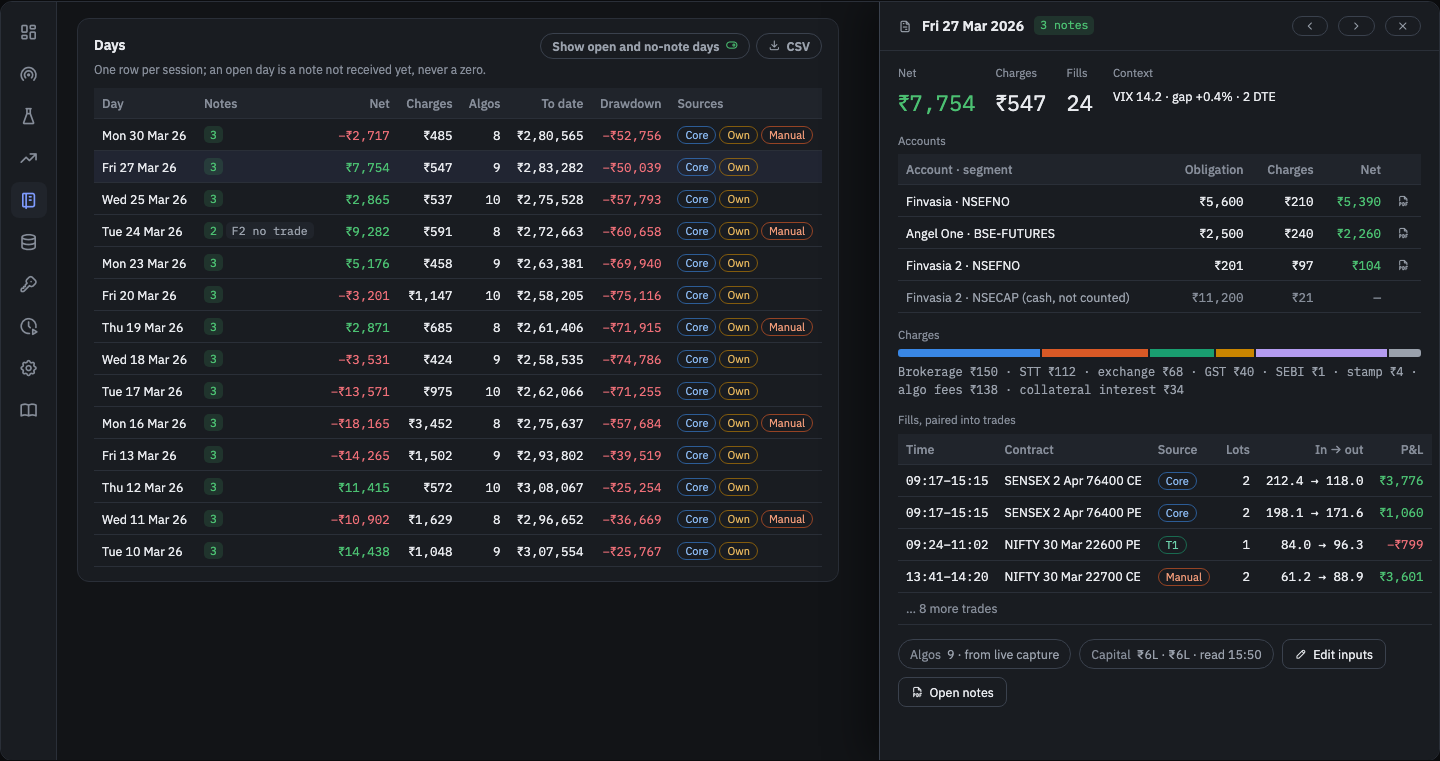
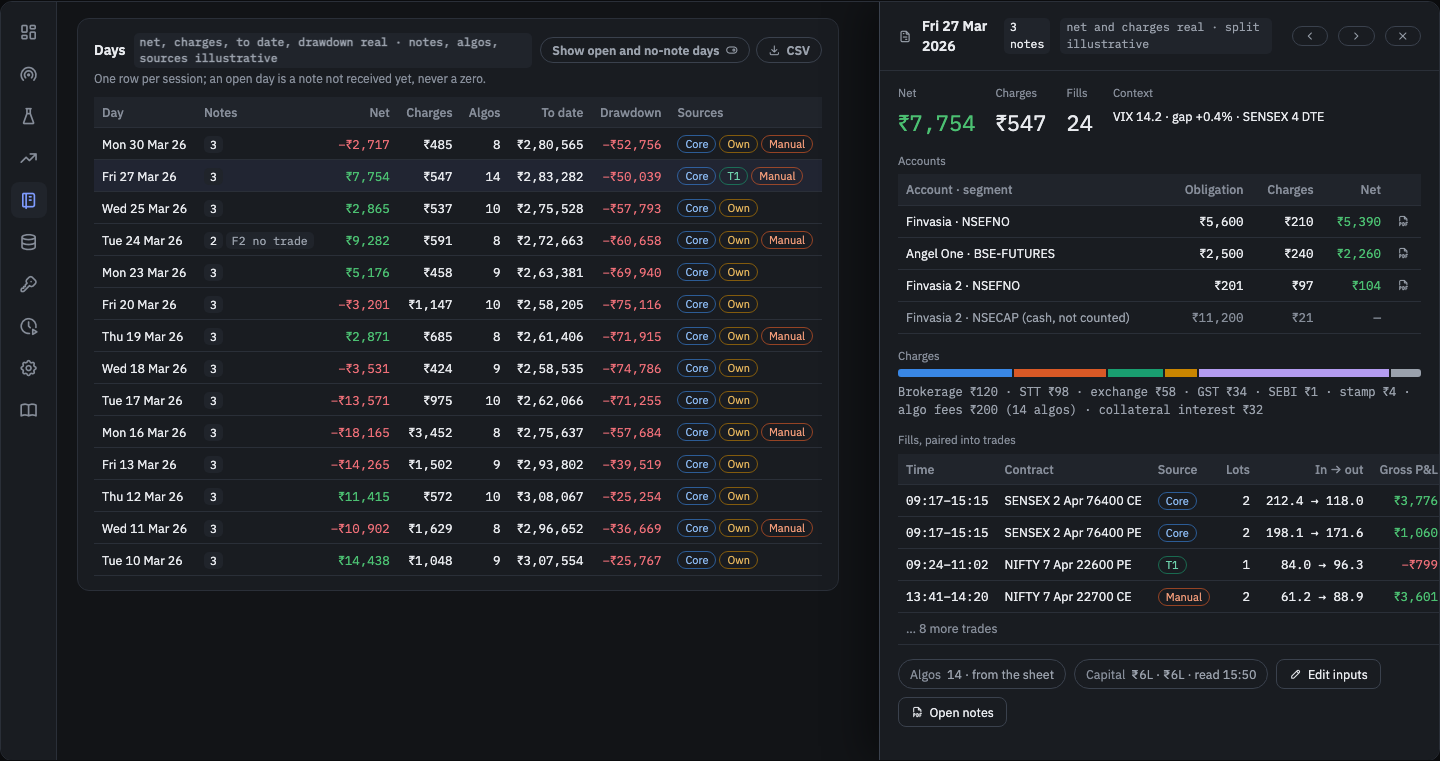
backlog(bl168): mockup review fixes (#334)
Every illustrative card is marked and the real figures are listed in the
item; the 27 Mar day agrees between its row and the drawer; each headline
tile says how it compares with the picked benchmark; trade P&L is gross;
the sheet's real algo fees; round axis ticks; weekdays and expiries fixed;
green only for profit. The approved design is unchanged.

diff --git a/backlog/assets/BL-168/trade-book-mockup.html b/backlog/assets/BL-168/trade-book-mockup.html
@@ -45,7 +45,8 @@ body{margin:0;background:#0b0c0e;color:var(--foreground);font:14px/1.45 Plex,sys
 .kpi .l{font-size:12px;color:var(--faint);display:flex;gap:6px;align-items:center}
 .kpi .v{font-family:PlexMono,monospace;font-size:26px;font-weight:500;margin-top:2px;letter-spacing:-.5px}
 .kpi .b{font-size:12px;color:var(--muted);margin-top:2px;display:flex;gap:6px;align-items:center}
-.badge{font-family:PlexMono,monospace;font-size:11.5px;padding:1px 6px;border-radius:5px;background:rgba(76,192,114,.15);color:var(--positive)}
+.badge{font-family:PlexMono,monospace;font-size:11.5px;padding:1px 6px;border-radius:5px;background:var(--surface-2);color:var(--foreground)}
+.badge.p{background:rgba(76,192,114,.15);color:var(--positive)}
 .badge.n{background:rgba(240,112,121,.15);color:var(--negative)}
 .badge.w{background:rgba(224,162,74,.15);color:var(--warning)}
 .badge.i{background:rgba(108,182,255,.13);color:var(--info)}
@@ -128,7 +129,7 @@ svg text{font-family:PlexMono,monospace;font-size:11px;fill:var(--faint)}
 <div class="main">
   <div class="grid" style="grid-template-columns:minmax(0,1.6fr) minmax(0,1fr)">
     <div class="card">
-      <h3>Ratios<span class="badge g">sheet formulas</span><span class="act"><span class="chip">Per account <i class="ti ti-toggle-left"></i></span></span></h3>
+      <h3>Ratios<span class="badge g">sheet formulas · every row to 26 May 26</span><span class="act"><span class="chip">Per account <i class="ti ti-toggle-left"></i></span></span></h3>
       <div class="d">Rolling over the last 50 or 100 sessions, the same columns as your sheet (T, U, V, W, Z).</div>
       <div id="ratioSeg" style="display:flex;gap:6px;flex-wrap:wrap;margin-bottom:8px"></div>
       <div style="display:flex;gap:14px;align-items:baseline"><span id="ratioNow" class="mono" style="font-size:22px;font-weight:500"></span><span id="ratioSub" class="fnt" style="font-size:12px"></span></div>
@@ -153,15 +154,15 @@ svg text{font-family:PlexMono,monospace;font-size:11px;fill:var(--faint)}
       <div class="d">Each account's net, capital and return; the 50:50 rule applies to Finvasia's capital.</div>
       <table>
         <tr><th>Account</th><th class="r">Net</th><th class="r">Capital</th><th class="r">Return</th><th class="r">Charge/profit</th></tr>
-        <tr><td>Finvasia · FA··14</td><td class="r num pos">₹1,84,520</td><td class="r num">₹6,00,000</td><td class="r num">30.8%</td><td class="r num">52.4%</td></tr>
-        <tr><td>Angel One · R5··20</td><td class="r num pos">₹1,14,320</td><td class="r num">₹6,00,000</td><td class="r num">19.1%</td><td class="r num">61.9%</td></tr>
-        <tr><td>Finvasia 2 · FA··08</td><td class="r num pos">₹23,448</td><td class="r num fnt">—</td><td class="r num fnt">—</td><td class="r num">48.0%</td></tr>
-        <tr><td class="mut">Algo fees (AlgoTest)</td><td class="r num neg">−₹41,723</td><td></td><td></td><td></td></tr>
+        <tr><td>Finvasia · FA··14</td><td class="r num pos">₹1,80,400</td><td class="r num">₹6,00,000</td><td class="r num">30.1%</td><td class="r num">52.4%</td></tr>
+        <tr><td>Angel One · R5··20</td><td class="r num pos">₹1,11,250</td><td class="r num">₹6,00,000</td><td class="r num">18.5%</td><td class="r num">61.9%</td></tr>
+        <tr><td>Finvasia 2 · FA··08</td><td class="r num pos">₹23,438</td><td class="r num fnt">—</td><td class="r num fnt">—</td><td class="r num">48.0%</td></tr>
+        <tr><td class="mut">Algo fees (AlgoTest, from the sheet)</td><td class="r num neg">−₹34,523</td><td></td><td></td><td></td></tr>
       </table>
       <div class="lbl" style="margin-top:14px">Charges by kind · FY 2025-26</div>
-      <div class="bar"><span style="flex:41;background:var(--s1)"></span><span style="flex:22;background:var(--s2)"></span><span style="flex:13;background:var(--s3)"></span><span style="flex:9;background:var(--s4)"></span><span style="flex:12;background:var(--accent)"></span><span style="flex:3;background:var(--muted)"></span></div>
+      <div class="bar"><span style="flex:38;background:var(--s1)"></span><span style="flex:20;background:var(--s2)"></span><span style="flex:12;background:var(--s3)"></span><span style="flex:8;background:var(--s4)"></span><span style="flex:20;background:var(--accent)"></span><span style="flex:2;background:var(--muted)"></span></div>
       <div style="display:flex;flex-wrap:wrap;gap:4px 14px;font-size:12px;color:var(--muted);margin-top:8px">
-        <span><span class="sw" style="background:var(--s1)"></span>Brokerage 41%</span><span><span class="sw" style="background:var(--s2)"></span>STT 22%</span><span><span class="sw" style="background:var(--s3)"></span>Exchange 13%</span><span><span class="sw" style="background:var(--s4)"></span>GST 9%</span><span><span class="sw" style="background:var(--accent)"></span>Algo fees 12%</span><span><span class="sw" style="background:var(--muted)"></span>Collateral interest 3%</span></div>
+        <span><span class="sw" style="background:var(--s1)"></span>Brokerage 38%</span><span><span class="sw" style="background:var(--s2)"></span>STT 20%</span><span><span class="sw" style="background:var(--s3)"></span>Exchange 12%</span><span><span class="sw" style="background:var(--s4)"></span>GST 8%</span><span><span class="sw" style="background:var(--accent)"></span>Algo fees 20%</span><span><span class="sw" style="background:var(--muted)"></span>Collateral interest 2%</span></div>
     </div>
   </div>
 </div>
@@ -174,31 +175,31 @@ svg text{font-family:PlexMono,monospace;font-size:11px;fill:var(--faint)}
 <div class="main">
   <div class="grid" style="grid-template-columns:minmax(0,1fr);padding-right:600px">
     <div class="card">
-      <h3>Days<span class="act"><span class="chip">Show open and no-note days <i class="ti ti-toggle-right pos"></i></span><span class="chip"><i class="ti ti-download"></i>CSV</span></span></h3>
+      <h3>Days<span class="badge g">net, charges, to date, drawdown real · notes, algos, sources illustrative</span><span class="act"><span class="chip">Show open and no-note days <i class="ti ti-toggle-right"></i></span><span class="chip"><i class="ti ti-download"></i>CSV</span></span></h3>
       <div class="d">One row per session; an open day is a note not received yet, never a zero.</div>
       <table id="days"></table>
     </div>
   </div>
   <aside class="drawer">
-    <div class="hd"><i class="ti ti-file-invoice mut"></i><b>Fri 27 Mar 2026</b><span class="badge">3 notes</span><span class="sp"></span><span class="chip"><i class="ti ti-chevron-left"></i></span><span class="chip"><i class="ti ti-chevron-right"></i></span><span class="chip"><i class="ti ti-x"></i></span></div>
+    <div class="hd"><i class="ti ti-file-invoice mut"></i><b>Fri 27 Mar 2026</b><span class="badge">3 notes</span><span class="badge g">net and charges real · split illustrative</span><span class="sp"></span><span class="chip"><i class="ti ti-chevron-left"></i></span><span class="chip"><i class="ti ti-chevron-right"></i></span><span class="chip"><i class="ti ti-x"></i></span></div>
     <div class="bd">
-      <div style="display:flex;gap:20px"><div><div class="lbl">Net</div><div class="mono pos" style="font-size:22px">₹7,754</div></div><div><div class="lbl">Charges</div><div class="mono" style="font-size:22px">₹547</div></div><div><div class="lbl">Fills</div><div class="mono" style="font-size:22px">24</div></div><div><div class="lbl">Context</div><div style="font-size:12.5px;margin-top:5px">VIX 14.2 · gap +0.4% · 2 DTE</div></div></div>
+      <div style="display:flex;gap:20px"><div><div class="lbl">Net</div><div class="mono pos" style="font-size:22px">₹7,754</div></div><div><div class="lbl">Charges</div><div class="mono" style="font-size:22px">₹547</div></div><div><div class="lbl">Fills</div><div class="mono" style="font-size:22px">24</div></div><div><div class="lbl">Context</div><div style="font-size:12.5px;margin-top:5px">VIX 14.2 · gap +0.4% · SENSEX 4 DTE</div></div></div>
       <div><div class="lbl">Accounts</div><table>
         <tr><th>Account · segment</th><th class="r">Obligation</th><th class="r">Charges</th><th class="r">Net</th><th></th></tr>
         <tr><td>Finvasia · NSEFNO</td><td class="r num">₹5,600</td><td class="r num">₹210</td><td class="r num pos">₹5,390</td><td><i class="ti ti-file-type-pdf mut"></i></td></tr>
         <tr><td>Angel One · BSE-FUTURES</td><td class="r num">₹2,500</td><td class="r num">₹240</td><td class="r num pos">₹2,260</td><td><i class="ti ti-file-type-pdf mut"></i></td></tr>
         <tr><td>Finvasia 2 · NSEFNO</td><td class="r num">₹201</td><td class="r num">₹97</td><td class="r num pos">₹104</td><td><i class="ti ti-file-type-pdf mut"></i></td></tr>
         <tr><td class="mut">Finvasia 2 · NSECAP (cash, not counted)</td><td class="r num fnt">₹11,200</td><td class="r num fnt">₹21</td><td class="r num fnt">—</td><td></td></tr></table></div>
-      <div><div class="lbl">Charges</div><div class="bar" style="height:8px"><span style="flex:150;background:var(--s1)"></span><span style="flex:112;background:var(--s2)"></span><span style="flex:68;background:var(--s3)"></span><span style="flex:40;background:var(--s4)"></span><span style="flex:138;background:var(--accent)"></span><span style="flex:34;background:var(--muted)"></span></div>
-      <div class="mono" style="font-size:12px;color:var(--muted);margin-top:6px">Brokerage ₹150 · STT ₹112 · exchange ₹68 · GST ₹40 · SEBI ₹1 · stamp ₹4 · algo fees ₹138 · collateral interest ₹34</div></div>
+      <div><div class="lbl">Charges</div><div class="bar" style="height:8px"><span style="flex:120;background:var(--s1)"></span><span style="flex:98;background:var(--s2)"></span><span style="flex:58;background:var(--s3)"></span><span style="flex:34;background:var(--s4)"></span><span style="flex:200;background:var(--accent)"></span><span style="flex:32;background:var(--muted)"></span></div>
+      <div class="mono" style="font-size:12px;color:var(--muted);margin-top:6px">Brokerage ₹120 · STT ₹98 · exchange ₹58 · GST ₹34 · SEBI ₹1 · stamp ₹4 · algo fees ₹200 (14 algos) · collateral interest ₹32</div></div>
       <div><div class="lbl">Fills, paired into trades</div><table>
-        <tr><th>Time</th><th>Contract</th><th>Source</th><th class="r">Lots</th><th class="r">In → out</th><th class="r">P&amp;L</th></tr>
+        <tr><th>Time</th><th>Contract</th><th>Source</th><th class="r">Lots</th><th class="r">In → out</th><th class="r">Gross P&amp;L</th></tr>
         <tr><td class="num">09:17–15:15</td><td>SENSEX 2 Apr 76400 CE</td><td><span class="src c">Core</span></td><td class="r num">2</td><td class="r num">212.4 → 118.0</td><td class="r num pos">₹3,776</td></tr>
         <tr><td class="num">09:17–15:15</td><td>SENSEX 2 Apr 76400 PE</td><td><span class="src c">Core</span></td><td class="r num">2</td><td class="r num">198.1 → 171.6</td><td class="r num pos">₹1,060</td></tr>
-        <tr><td class="num">09:24–11:02</td><td>NIFTY 30 Mar 22600 PE</td><td><span class="src t">T1</span></td><td class="r num">1</td><td class="r num">84.0 → 96.3</td><td class="r num neg">−₹799</td></tr>
-        <tr><td class="num">13:41–14:20</td><td>NIFTY 30 Mar 22700 CE</td><td><span class="src m">Manual</span></td><td class="r num">2</td><td class="r num">61.2 → 88.9</td><td class="r num pos">₹3,601</td></tr>
+        <tr><td class="num">09:24–11:02</td><td>NIFTY 7 Apr 22600 PE</td><td><span class="src t">T1</span></td><td class="r num">1</td><td class="r num">84.0 → 96.3</td><td class="r num neg">−₹799</td></tr>
+        <tr><td class="num">13:41–14:20</td><td>NIFTY 7 Apr 22700 CE</td><td><span class="src m">Manual</span></td><td class="r num">2</td><td class="r num">61.2 → 88.9</td><td class="r num pos">₹3,601</td></tr>
         <tr><td colspan="6" class="fnt">… 8 more trades</td></tr></table></div>
-      <div style="display:flex;gap:8px;flex-wrap:wrap"><span class="chip"><span class="k">Algos</span>9 · from live capture</span><span class="chip"><span class="k">Capital</span>₹6L · ₹6L · read 15:50</span><span class="btn"><i class="ti ti-pencil"></i>Edit inputs</span><span class="btn"><i class="ti ti-file-type-pdf"></i>Open notes</span></div>
+      <div style="display:flex;gap:8px;flex-wrap:wrap"><span class="chip"><span class="k">Algos</span>14 · from the sheet</span><span class="chip"><span class="k">Capital</span>₹6L · ₹6L · read 15:50</span><span class="btn"><i class="ti ti-pencil"></i>Edit inputs</span><span class="btn"><i class="ti ti-file-type-pdf"></i>Open notes</span></div>
     </div>
   </aside>
 </div>
@@ -237,15 +238,15 @@ svg text{font-family:PlexMono,monospace;font-size:11px;fill:var(--faint)}
     </div>
   </div>
   <div class="grid"><div class="card">
-    <h3>Round trips<span class="act"><span class="chip"><i class="ti ti-download"></i>CSV</span></span></h3>
+    <h3>Round trips<span class="badge g">illustrative</span><span class="act"><span class="chip"><i class="ti ti-download"></i>CSV</span></span></h3>
     <div class="d">Fills paired per contract, account and day.</div>
     <table>
-      <tr><th>Day</th><th>Time</th><th>Contract</th><th>Source</th><th class="r">DTE</th><th class="r">From ATM</th><th class="r">Lots</th><th class="r">Held</th><th class="r">Worst</th><th class="r">Best</th><th class="r">Charges</th><th class="r">P&amp;L</th></tr>
-      <tr><td>Fri 23 Oct</td><td class="num">09:17</td><td>SENSEX 27 Oct 81400 CE</td><td><span class="src c">Core</span></td><td class="r num">2</td><td class="r num">ATM</td><td class="r num">2</td><td class="r num">5h 58m</td><td class="r num neg">−₹1,240</td><td class="r num pos">₹4,410</td><td class="r num">₹214</td><td class="r num pos">₹3,776</td></tr>
-      <tr><td>Fri 23 Oct</td><td class="num">09:24</td><td>NIFTY 28 Oct 25700 PE</td><td><span class="src t">T1</span></td><td class="r num">3</td><td class="r num">−1</td><td class="r num">1</td><td class="r num">1h 38m</td><td class="r num neg">−₹1,105</td><td class="r num pos">₹260</td><td class="r num">₹96</td><td class="r num neg">−₹799</td></tr>
-      <tr><td>Fri 23 Oct</td><td class="num">13:41</td><td>NIFTY 28 Oct 25800 CE</td><td><span class="src m">Manual</span></td><td class="r num">3</td><td class="r num">+1</td><td class="r num">2</td><td class="r num">39m</td><td class="r num neg">−₹410</td><td class="r num pos">₹4,020</td><td class="r num">₹118</td><td class="r num pos">₹3,601</td></tr>
-      <tr><td>Thu 22 Oct</td><td class="num">09:17</td><td>SENSEX 27 Oct 81200 PE</td><td><span class="src o">Own algo</span></td><td class="r num">3</td><td class="r num">ATM</td><td class="r num">1</td><td class="r num">6h 1m</td><td class="r num neg">−₹2,880</td><td class="r num pos">₹640</td><td class="r num">₹107</td><td class="r num neg">−₹2,214</td></tr>
-      <tr><td>Thu 22 Oct</td><td class="num">10:05</td><td>BANKNIFTY 28 Oct 57000 CE</td><td><span class="src m">Manual</span></td><td class="r num">4</td><td class="r num">+2</td><td class="r num">1</td><td class="r num">22m</td><td class="r num neg">−₹1,650</td><td class="r num pos">₹300</td><td class="r num">₹94</td><td class="r num neg">−₹1,744</td></tr>
+      <tr><th>Day</th><th>Time</th><th>Contract</th><th>Source</th><th class="r">DTE</th><th class="r">From ATM</th><th class="r">Lots</th><th class="r">Held</th><th class="r">Worst</th><th class="r">Best</th><th class="r">Charges</th><th class="r">Gross P&amp;L</th></tr>
+      <tr><td>Fri 23 Oct</td><td class="num">09:17</td><td>SENSEX 29 Oct 81400 CE</td><td><span class="src c">Core</span></td><td class="r num">4</td><td class="r num">ATM</td><td class="r num">2</td><td class="r num">5h 58m</td><td class="r num neg">−₹1,240</td><td class="r num pos">₹4,410</td><td class="r num">₹214</td><td class="r num pos">₹3,776</td></tr>
+      <tr><td>Fri 23 Oct</td><td class="num">09:24</td><td>NIFTY 27 Oct 25700 PE</td><td><span class="src t">T1</span></td><td class="r num">2</td><td class="r num">−1</td><td class="r num">1</td><td class="r num">1h 38m</td><td class="r num neg">−₹1,105</td><td class="r num pos">₹260</td><td class="r num">₹96</td><td class="r num neg">−₹799</td></tr>
+      <tr><td>Fri 23 Oct</td><td class="num">13:41</td><td>NIFTY 27 Oct 25800 CE</td><td><span class="src m">Manual</span></td><td class="r num">2</td><td class="r num">+1</td><td class="r num">2</td><td class="r num">39m</td><td class="r num neg">−₹410</td><td class="r num pos">₹4,020</td><td class="r num">₹118</td><td class="r num pos">₹3,601</td></tr>
+      <tr><td>Thu 22 Oct</td><td class="num">09:17</td><td>SENSEX 29 Oct 81200 PE</td><td><span class="src o">Own algo</span></td><td class="r num">5</td><td class="r num">ATM</td><td class="r num">1</td><td class="r num">6h 1m</td><td class="r num neg">−₹2,880</td><td class="r num pos">₹640</td><td class="r num">₹107</td><td class="r num neg">−₹2,214</td></tr>
+      <tr><td>Thu 22 Oct</td><td class="num">10:05</td><td>BANKNIFTY 27 Oct 57000 CE</td><td><span class="src m">Manual</span></td><td class="r num">3</td><td class="r num">+2</td><td class="r num">1</td><td class="r num">22m</td><td class="r num neg">−₹1,650</td><td class="r num pos">₹300</td><td class="r num">₹94</td><td class="r num neg">−₹1,560</td></tr>
     </table>
   </div></div>
 </div>
@@ -261,7 +262,7 @@ svg text{font-family:PlexMono,monospace;font-size:11px;fill:var(--faint)}
     <span class="chip on"><span class="k">Year</span>FY 2026-27</span><span class="chip on"><span class="k">Accounts</span>All 3</span><span class="sp"></span><span class="btn"><i class="ti ti-adjustments"></i>Settings</span>
   </div>
   <div class="grid" style="grid-template-columns:repeat(4,minmax(0,1fr))">
-    <div class="card"><div class="lbl">Return on money in the account</div><div class="mono pos" style="font-size:24px">10.6%</div><div class="fnt" style="font-size:12px">time-weighted; deposits taken out</div></div>
+    <div class="card"><div class="lbl">Return on money in the account <span class="badge g">illustrative</span></div><div class="mono pos" style="font-size:24px">10.6%</div><div class="fnt" style="font-size:12px">time-weighted; deposits taken out</div></div>
     <div class="card"><div class="lbl">Money in · out</div><div class="mono" style="font-size:24px">₹3,00,000 · ₹40,000</div><div class="fnt" style="font-size:12px">2 deposits, 1 settlement</div></div>
     <div class="card"><div class="lbl">Collateral interest (Angel One)</div><div class="mono neg" style="font-size:24px">−₹6,812</div><div class="fnt" style="font-size:12px">115 days · avg ₹59 · posted 1st and 16th</div></div>
     <div class="card"><div class="lbl">Margin above 95%</div><div class="mono warn" style="font-size:24px">23 days</div><div class="fnt" style="font-size:12px">from Margin Shortfall Intimation</div></div>
@@ -269,14 +270,14 @@ svg text{font-family:PlexMono,monospace;font-size:11px;fill:var(--faint)}
   <div class="grid" style="grid-template-columns:minmax(0,1.6fr) minmax(0,1fr)">
     <div class="card"><h3>Capital per account<span class="badge g">illustrative</span></h3><div class="d">Usable margin read at 15:50 for the next session; Finvasia counts collateral at 50:50, Angel One in full.</div><div id="capchart"></div>
       <div class="legend"><span><span class="sw" style="background:var(--s1)"></span>Finvasia</span><span><span class="sw" style="background:var(--s3)"></span>Angel One</span><span><span class="sw" style="background:var(--s4)"></span>Finvasia 2</span><span>▲ deposit ▼ withdrawal</span></div></div>
-    <div class="card"><h3>Ledger events</h3><div class="d">From the brokers' e-mails; a deposit is never profit.</div>
+    <div class="card"><h3>Ledger events<span class="badge g">illustrative</span></h3><div class="d">From the brokers' e-mails; a deposit is never profit.</div>
       <table><tr><th>Day</th><th>Account</th><th>Event</th><th class="r">Amount</th></tr>
       <tr><td>Thu 22 Oct</td><td>Angel One</td><td><span class="badge w">margin 97.9%</span> 10:05</td><td class="r num fnt">—</td></tr>
       <tr><td>Fri 16 Oct</td><td>Angel One</td><td>Interest posted (1–15 Oct)</td><td class="r num neg">−₹812</td></tr>
       <tr><td>Mon 5 Oct</td><td>Finvasia</td><td>Quarterly fund settlement</td><td class="r num neg">−₹40,000</td></tr>
       <tr><td>Thu 1 Oct</td><td>Angel One</td><td>Funds added</td><td class="r num pos">₹1,00,000</td></tr>
       <tr><td>Wed 16 Sep</td><td>Angel One</td><td>Interest posted (1–15 Sep)</td><td class="r num neg">−₹1,046</td></tr>
-      <tr><td>Mon 1 Sep</td><td>Finvasia</td><td>Funds added</td><td class="r num pos">₹2,00,000</td></tr></table></div>
+      <tr><td>Tue 1 Sep</td><td>Finvasia</td><td>Funds added</td><td class="r num pos">₹2,00,000</td></tr></table></div>
   </div>
 </div>
 </section>
@@ -295,7 +296,7 @@ svg text{font-family:PlexMono,monospace;font-size:11px;fill:var(--faint)}
     <div class="kpi"><div class="l">Bought · sold</div><div class="v">₹1.12L · ₹13.2k</div><div class="b">17 buys · 2 sells</div></div>
     <div class="kpi"><div class="l">Charges</div><div class="v">₹612</div><div class="b">0.49% of turnover</div></div>
     <div class="kpi"><div class="l">Fills vs the Friday plan</div><div class="v neg">−0.4%</div><div class="b"><span class="badge n">−₹450</span> slippage on value</div></div>
-    <div class="bench">Every Kite transaction is booked to Momentum: that account trades nothing else.</div>
+    <div class="bench"><span class="badge g">illustrative</span><div style="margin-top:6px">Every Kite transaction is booked to Momentum: that account trades nothing else.</div></div>
   </div>
   <div class="grid"><div class="card"><h3>Lots<span class="badge g">illustrative</span></h3><div class="d">One row per weekly lot and Friday; the planned order beside what the note shows.</div>
     <table><tr><th>Lot</th><th>Friday</th><th>What happened</th><th class="r">Planned</th><th class="r">Filled</th><th class="r">Gap</th><th class="r">Charges</th><th class="r">Realised</th></tr>
@@ -312,14 +313,14 @@ svg text{font-family:PlexMono,monospace;font-size:11px;fill:var(--faint)}
 <div class="main">
   <div class="banner"><i class="ti ti-alert-triangle warn"></i><span><b>Angel One's note for Fri 23 Oct has not arrived.</b> <span class="mut">The day stays open and every figure above leaves it out; the 07:30 run looks again. Open days older than 10 sessions alert on Telegram.</span></span><span class="sp"></span><span class="btn">Mark as no trade</span></div>
   <div class="grid" style="grid-template-columns:minmax(0,1.25fr) 460px minmax(0,.75fr)">
-    <div class="card"><h3>Day rows by state</h3><div class="d">How the day table shows each case.</div>
+    <div class="card"><h3>Day rows by state<span class="badge g">illustrative</span></h3><div class="d">How the day table shows each case.</div>
       <table><tr><th>Day</th><th class="r">Net</th><th>State</th></tr>
       <tr><td>Fri 23 Oct</td><td class="r num pos">₹7,410</td><td><span class="badge">2 of 3 notes</span> <span class="badge w">Angel One open</span></td></tr>
       <tr><td>Thu 22 Oct</td><td class="r num neg">−₹4,120</td><td><span class="badge">3 notes</span></td></tr>
       <tr><td>Wed 21 Oct</td><td class="r num pos">₹12,880</td><td><span class="badge">2 notes</span> <span class="badge g">Finvasia 2 no trade</span></td></tr>
       <tr><td>Mon 19 Oct</td><td class="r num fnt">—</td><td><span class="badge n">parse failed</span> <span class="mut" style="font-size:12px">new segment label</span></td></tr>
-      <tr><td>Sat 1 Nov (Muhurat)</td><td class="r num pos">₹540</td><td><span class="badge i">special session</span></td></tr>
-      <tr><td>Mon 1 Apr 25</td><td class="r num pos">₹6,095</td><td><span class="badge g">from sheet</span> <span class="mut" style="font-size:12px">no e-mail kept</span></td></tr></table></div>
+      <tr><td>Sun 8 Nov (Muhurat)</td><td class="r num pos">₹540</td><td><span class="badge i">special session</span></td></tr>
+      <tr><td>Wed 2 Apr 25</td><td class="r num pos">₹6,095</td><td><span class="badge g">from sheet</span> <span class="mut" style="font-size:12px">no e-mail kept</span></td></tr></table></div>
     <div class="card" style="border-color:var(--border-strong);box-shadow:0 18px 50px rgba(0,0,0,.5)"><h3>Inputs for Fri 23 Oct<span class="act"><i class="ti ti-x mut"></i></span></h3><div class="d">The two columns your sheet asked you to type; pre-filled where the repo can read them.</div>
       <div class="lbl">Algo trades taken</div><div style="display:flex;gap:8px;align-items:center"><div class="field" style="width:90px">9</div><span class="badge i">from live capture</span><span class="fnt" style="font-size:12px">algo fees ₹138</span></div>
       <div class="lbl" style="margin-top:12px">Capital, per account (morning)</div>
@@ -351,7 +352,7 @@ function lineSVG(o){
   const all=o.series.flatMap(s=>s.d.filter(v=>v!=null));
   let lo=Math.min(0,...all),hi=Math.max(...all);if(o.lo!=null)lo=o.lo;const pad=(hi-lo)*.06;hi+=pad;lo-=lo<0?pad:0;
   const n=o.series[0].d.length,x=i=>pl+i*iw/(n-1),y=v=>pt+(hi-v)*ih/(hi-lo);
-  let g='';const ticks=5;for(let k=0;k<=ticks;k++){const v=lo+(hi-lo)*k/ticks;g+=`<line x1="${pl}" x2="${W-pr}" y1="${y(v)}" y2="${y(v)}" stroke="#2a2f38"/><text x="${pl-8}" y="${y(v)+4}" text-anchor="end">${o.fmt(v)}</text>`}
+  let g='';const raw=(hi-lo)/5,mag=Math.pow(10,Math.floor(Math.log10(raw))),step=[1,2,2.5,5,10].map(m=>m*mag).find(m=>m>=raw);for(let v=Math.ceil(lo/step)*step;v<=hi;v+=step){g+=`<line x1="${pl}" x2="${W-pr}" y1="${y(v)}" y2="${y(v)}" stroke="#2a2f38"/><text x="${pl-8}" y="${y(v)+4}" text-anchor="end">${o.fmt(v)}</text>`}
   if(lo<0)g+=`<line x1="${pl}" x2="${W-pr}" y1="${y(0)}" y2="${y(0)}" stroke="#3a414d"/>`;
   (o.xt||[]).forEach(([i,t])=>{g+=`<text x="${x(i)}" y="${H-8}" text-anchor="middle">${t}</text>`});
   o.series.forEach(s=>{let d='',area='',started=false,first=0;s.d.forEach((v,i)=>{if(v==null){started=false;return}d+=(started?'L':'M')+x(i).toFixed(1)+' '+y(v).toFixed(1);if(!started)first=i;started=true});
@@ -384,16 +385,16 @@ fP.forEach((p,i)=>{if(p!=null){cum+=p;if(p>0){w++;sw+=p}else if(p<0){l++;sl+=p}b
 const tc=fC.reduce((a,b)=>a+b,0),n=fP.length,target=fP.map((_,i)=>CAP*0.24*(i+1)/n);
 const roc=cum*100/CAP;
 document.getElementById('strip').innerHTML=[
- ['Net profit',inr(cum),'pos',`<span class="badge">${(roc).toFixed(1)}% of ₹12L</span>`],
+ ['Net profit',inr(cum),'pos',`<span class="badge n">${inr(cum-CAP*0.24)}</span> target ${inr(CAP*0.24)}`],
  ['Return vs target',roc.toFixed(1)+'%','',`<span class="badge n">${(roc-24).toFixed(1)}pp</span> target 24.0%`],
- ['Max drawdown',inr(mdd),'neg',`${(mdd*100/CAP).toFixed(1)}% · ${longest} sessions below peak`],
- ['Charges / profit',(tc*100/cum).toFixed(0)+'%','',`<span class="badge w">${inr(tc)}</span> charges`],
- ['Win days',Math.round(w*100/(w+l))+'%','',`${w} won · ${l} lost`]
+ ['Max drawdown',inr(mdd),'neg',`${(mdd*100/CAP).toFixed(1)}% · <span class="fnt">no target figure</span>`],
+ ['Charges / net profit',(tc*100/cum).toFixed(0)+'%','',`${inr(tc)} · <span class="fnt">no target figure</span>`],
+ ['Win days',Math.round(w*100/(w+l))+'%','',`${w} won · ${l} lost · <span class="fnt">no target figure</span>`]
 ].map(k=>`<div class="kpi"><div class="l">${k[0]}</div><div class="v ${k[2]}">${k[1]}</div><div class="b">${k[3]}</div></div>`).join('')+
-`<div class="bench"><div class="lbl">Compare with</div><span class="chip on">Target pace 24% <i class="ti ti-chevron-down"></i></span><div style="margin-top:8px;line-height:1.5">Other choices: last FY · Adaptive paper (from 19 Oct) · NIFTY</div></div>`;
-document.getElementById('secline').innerHTML=`Avg day <b>${inr(cum/(w+l))}</b> · avg win <b>${inr(sw/w)}</b> · avg loss <b>${inr(sl/l)}</b> · best <b>${inr(best)}</b> · worst <b>${inr(worst)}</b> · 100-day avg profit <b>${inr(fP.slice(-100).filter(v=>v!=null).reduce((a,b)=>a+b,0)/fP.slice(-100).filter(v=>v!=null).length)}</b> · profit/capital <b>${(fP.slice(-100).filter(v=>v!=null).reduce((a,b)=>a+b,0)/fP.slice(-100).filter(v=>v!=null).length*10000/CAP).toFixed(1)} bps/day</b> · sessions <b>${n}</b> · collateral interest <b>₹6,812</b> · <span style="color:var(--primary)">All metrics</span>`;
+`<div class="bench"><div class="lbl">Compare with</div><span class="chip on">Target pace 24% <i class="ti ti-chevron-down"></i></span><div style="margin-top:8px;line-height:1.5">A target pace has a figure for profit and return only, and says so on the other tiles. Last FY, Adaptive paper (from 19 Oct) and NIFTY compare every tile.</div></div>`;
+document.getElementById('secline').innerHTML=`Avg day <b>${inr(cum/(w+l))}</b> · avg win <b>${inr(sw/w)}</b> · avg loss <b>${inr(sl/l)}</b> · best <b>${inr(best)}</b> · worst <b>${inr(worst)}</b> · 100-day avg profit to 31 Mar <b>${inr(fP.slice(-100).filter(v=>v!=null).reduce((a,b)=>a+b,0)/fP.slice(-100).filter(v=>v!=null).length)}</b> · profit/capital <b>${(fP.slice(-100).filter(v=>v!=null).reduce((a,b)=>a+b,0)/fP.slice(-100).filter(v=>v!=null).length*10000/CAP).toFixed(0)} bps/day</b> · sessions <b>${n}</b> · <span style="color:var(--primary)">All metrics</span>`;
 const HW=1340,mark=IDX.length-60;
-const hero=lineSVG({w:HW,h:430,series:[{d:CUM,c:'#3987e5',fill:'rgba(57,135,229,.10)'},{d:target,c:'#9aa1ac',wd:1.5,dash:true}],fmt:v=>(v/100000).toFixed(1)+'L',xt:monthTicks(fL),mark:[mark,CUM[mark]]});
+const hero=lineSVG({w:HW,h:430,series:[{d:CUM,c:'#3987e5',fill:'rgba(57,135,229,.10)'},{d:target,c:'#9aa1ac',wd:1.5,dash:true}],fmt:v=>(v/100000).toFixed(1).replace(/\.0$/,'')+'L',xt:monthTicks(fL),mark:[mark,CUM[mark]]});
 document.getElementById('hero').innerHTML=hero.svg;
 const tt=document.getElementById('tt');tt.style.display='block';tt.style.left=(hero.x(mark)+20-80)+'px';tt.style.top=(hero.y(CUM[mark])+6+40+30)+'px';
 tt.innerHTML=`<div class="mono" style="font-weight:500">${fL[mark]}</div><div>Day <span class="mono ${fP[mark]<0?'neg':'pos'}">${inr(fP[mark])}</span> · to date <span class="mono">${inr(CUM[mark])}</span></div><div class="fnt">Drawdown <span class="mono">${inr(DD[mark])}</span> · click for the day</div>`;
@@ -402,14 +403,14 @@ tt.innerHTML=`<div class="mono" style="font-weight:500">${fL[mark]}</div><div>Da
 const avg=(a,i,k)=>{let s=0,c=0;for(let j=Math.max(0,i-k+1);j<=i;j++)if(a[j]!=null){s+=a[j];c++}return i+1<k?null:(c?s/c:null)};
 const A50=P.map((_,i)=>avg(P,i,50)),A100=P.map((_,i)=>avg(P,i,100)),C100=C.map((_,i)=>avg(C,i,100));
 const RT=A100.map((p,i)=>p==null?null:C100[i]*100/p),BPS=A100.map(p=>p==null?null:p*10000/CAP);
-const MET=[['50-day avg profit',A50,inr,'T: average daily profit over the last 50 sessions.'],['100-day avg profit',A100,inr,'U: the same over 100 sessions.'],['100-day avg charge',C100,inr,'V: average daily charges, algo fees included, over 100 sessions.'],['Charge / profit',RT,v=>v.toFixed(1)+'%','W: V ÷ U. Lower is better.'],['Profit / capital',BPS,v=>v.toFixed(1)+' bps','Z: U in basis points of capital a day; 10 bps a day is about 25% a year.']];
+const MET=[['50-day avg profit',A50,inr,'T: average daily profit over the last 50 sessions.'],['100-day avg profit',A100,inr,'U: the same over 100 sessions.'],['100-day avg charge',C100,inr,'V: average daily charges, algo fees included, over 100 sessions.'],['Charge / profit (W)',RT,v=>v.toFixed(1)+'%','W: V ÷ U, charges per rupee of net profit. Lower is better.'],['Profit / capital',BPS,v=>v.toFixed(0)+' bps','Z: U in basis points of capital a day; 10 bps a day is about 25% a year.']];
 const seg=document.getElementById('ratioSeg');
 function pick(k){const m=MET[k];[...seg.children].forEach((b,i)=>b.className='chip'+(i===k?' on':''));
  const r=lineSVG({w:780,h:230,series:[{d:m[1],c:'#3987e5',fill:'rgba(57,135,229,.10)'}],fmt:v=>k===3?v.toFixed(0)+'%':k===4?v.toFixed(0):(Math.abs(v)>=1000?(v/1000).toFixed(1)+'k':v.toFixed(0)),xt:monthTicks(L).filter((_,j)=>j%2===0)});
  document.getElementById('ratio').innerHTML=r.svg;const last=m[1][m[1].length-1],v=m[1].filter(x=>x!=null);
  document.getElementById('ratioNow').textContent=m[2](last);document.getElementById('ratioSub').textContent='on 26 May 26 · range '+m[2](Math.min(...v))+' to '+m[2](Math.max(...v));document.getElementById('ratioDef').textContent=m[3]}
 MET.forEach((m,i)=>{const b=document.createElement('span');b.textContent=m[0];b.className='chip';b.style.cursor='pointer';b.onclick=()=>pick(i);seg.appendChild(b)});pick(3);
-document.getElementById('summary').innerHTML=[['Net profit',inr(cum),'pos',roc.toFixed(1)+'% of capital'],['Max drawdown',inr(mdd),'neg',(mdd*100/CAP).toFixed(1)+'% of capital'],['Longest drawdown',longest+' sessions','','below the running peak'],['Win days',Math.round(w*100/(w+l))+'%','',w+' won · '+l+' lost'],['Avg win day',inr(sw/w),'pos','profit on a winning day'],['Avg loss day',inr(sl/l),'neg','loss on a losing day'],['Avg day',inr(cum/(w+l)),'','net per traded day'],['Charges',inr(tc),'',(tc*100/(cum+tc)).toFixed(0)+'% of gross']]
+document.getElementById('summary').innerHTML=[['Net profit',inr(cum),'pos',roc.toFixed(1)+'% of capital'],['Max drawdown',inr(mdd),'neg',(mdd*100/CAP).toFixed(1)+'% of capital'],['Longest drawdown',longest+' sessions','','below the running peak'],['Win days',Math.round(w*100/(w+l))+'%','',w+' won · '+l+' lost'],['Avg win day',inr(sw/w),'pos','profit on a winning day'],['Avg loss day',inr(sl/l),'neg','loss on a losing day'],['Avg day',inr(cum/(w+l)),'','net per traded day'],['Charges',inr(tc),'',(tc*100/(cum+tc)).toFixed(0)+'% of profit before charges']]
  .map(s=>`<div style="background:var(--surface-2);border-radius:8px;padding:9px 11px"><div class="lbl" style="margin:0">${s[0]}</div><div class="mono ${s[2]}" style="font-size:18px;font-weight:500">${s[1]}</div><div class="fnt" style="font-size:11.5px">${s[3]}</div></div>`).join('');
 
 /* monthly + FY (real) */
@@ -423,7 +424,7 @@ document.getElementById('fy').innerHTML=`<tr><th>Year</th><th class="r">Profit</
 /* days (real net and charges; accounts illustrative) */
 const last=IDX.slice(-14).reverse();
 document.getElementById('days').innerHTML=`<tr><th>Day</th><th>Notes</th><th class="r">Net</th><th class="r">Charges</th><th class="r">Algos</th><th class="r">To date</th><th class="r">Drawdown</th><th>Sources</th></tr>`+last.map((i,k)=>{const j=IDX.indexOf(i);const p=P[i];const d=new Date(2000+ +L[i].split(' ')[2],MON.indexOf(L[i].split(' ')[1]),+L[i].split(' ')[0]);const wd=['Sun','Mon','Tue','Wed','Thu','Fri','Sat'][d.getDay()];
- const sel=L[i]==='27 Mar 26';return `<tr class="${sel?'sel':''}"><td>${wd} ${L[i]}</td><td>${k===3?'<span class="badge">2</span> <span class="badge g">F2 no trade</span>':'<span class="badge">3</span>'}</td><td class="r num ${p<0?'neg':'pos'}">${inr(p)}</td><td class="r num">${inr(C[i])}</td><td class="r num">${8+(k%3)}</td><td class="r num">${inr(CUM[j])}</td><td class="r num ${DD[j]<0?'neg':'fnt'}">${DD[j]<0?inr(DD[j]):'—'}</td><td><span class="src c">Core</span> <span class="src o">Own</span>${k%3===0?' <span class="src m">Manual</span>':''}</td></tr>`}).join('');
+ const sel=L[i]==='27 Mar 26';return `<tr class="${sel?'sel':''}"><td>${wd} ${L[i]}</td><td>${k===3?'<span class="badge">2</span> <span class="badge g">F2 no trade</span>':'<span class="badge">3</span>'}</td><td class="r num ${p<0?'neg':'pos'}">${inr(p)}</td><td class="r num">${inr(C[i])}</td><td class="r num">${sel?14:8+(k%3)}</td><td class="r num">${inr(CUM[j])}</td><td class="r num ${DD[j]<0?'neg':'fnt'}">${DD[j]<0?inr(DD[j]):'—'}</td><td>${sel?'<span class="src c">Core</span> <span class="src t">T1</span> <span class="src m">Manual</span>':'<span class="src c">Core</span> <span class="src o">Own</span>'+(k%3===0?' <span class="src m">Manual</span>':'')}</td></tr>`}).join('');
 
 /* trades: source cards + scatter (illustrative) */
 document.getElementById('srcCards').innerHTML=[['Adaptive Core','c','₹38,420','218 trades · 61% won · avg ₹176'],['T1','t','₹12,960','104 trades · 57% won · avg ₹125'],['Own algos','o','₹41,180','286 trades · 59% won · avg ₹144'],['Manual','m','−₹4,310','37 trades · 41% won · avg −₹116']]

diff --git a/backlog/BL-168-contract-notes-trade-book.md b/backlog/BL-168-contract-notes-trade-book.md
@@ -273,7 +273,8 @@ account, behaviour patterns.
 - **Tasks:** both extractors emit the itemised charges, segment rows, trade rows and note
   identifiers (the obligation cross-check stays a hard error); the Angel One interest e-mail,
   the ledger e-mails (funds, payouts, settlements, margin shortfall) and the `kite` plugin;
-  the one-time import of
+  the one-time import (two rows in the committed copy are both dated 20 May 25: summed as one
+  session and listed in the import's report) of
   the sheet's rows since 1 Apr 2025 as `source: 'sheet'` (five figures and the manual inputs)
   from an `.xlsx` the owner downloads (`contract-notes import-sheet <file>`; no Google
   credentials); a Gmail backfill by date range (`--from --to`) that re-parses the notes still
@@ -318,9 +319,13 @@ account, behaviour patterns.
 ## Mockups (Phase 2, approved by the owner 2026-10-26)
 
 The source is [`assets/BL-168/trade-book-mockup.html`](assets/BL-168/trade-book-mockup.html):
-the dashboard's dark tokens and IBM Plex, the analytics page pattern. Screens 2 and 3 are the
-sheet's real daily rows (FY 2025-26, from the committed copy) computed with the sheet's
-formulas; every other figure is illustrative and marked so on the screen.
+the dashboard's dark tokens and IBM Plex, the analytics page pattern. Real figures (the sheet's
+daily rows from the committed copy, computed with the sheet's formulas): screen 2 (FY 2025-26),
+screen 3's ratios (every row to 26 May 2026) and summary (FY 2025-26), the algo fees on screen 3,
+and screen 4's net, charges, to-date and drawdown columns and the 27 Mar day's net, charges and
+algos. Everything else is illustrative, and each such card says so. With a target-pace benchmark
+only profit and return have a benchmark figure; the other tiles say "no target figure" (a
+benchmark that is a series — last FY, Adaptive paper, NIFTY — compares every tile).
 
 | Screen | Mockup |
 |---|---|
@@ -411,3 +416,8 @@ record from them.
   from one HTML file; the first screen and the ratios use the sheet's real FY 2025-26 rows
   (net ₹2,80,565, max drawdown −₹83,335, the sheet's own −83,335).
 - 2026-10-26 — Phase 2 done: the owner approved the mockups as drawn. Phase 5 builds from them.
+- 2026-10-26 — review of PR #334 fixed in the mockups (no change to the approved design): every
+  illustrative card marked, the real figures listed above; the 27 Mar day consistent between
+  its row and the drawer (14 algos, ₹200 algo fees from the sheet); each headline tile says how
+  it compares with the picked benchmark; trade P&L labelled gross; the sheet's real algo fees
+  (₹34,523); round axis ticks; weekdays and expiries corrected; green kept for profit only.
